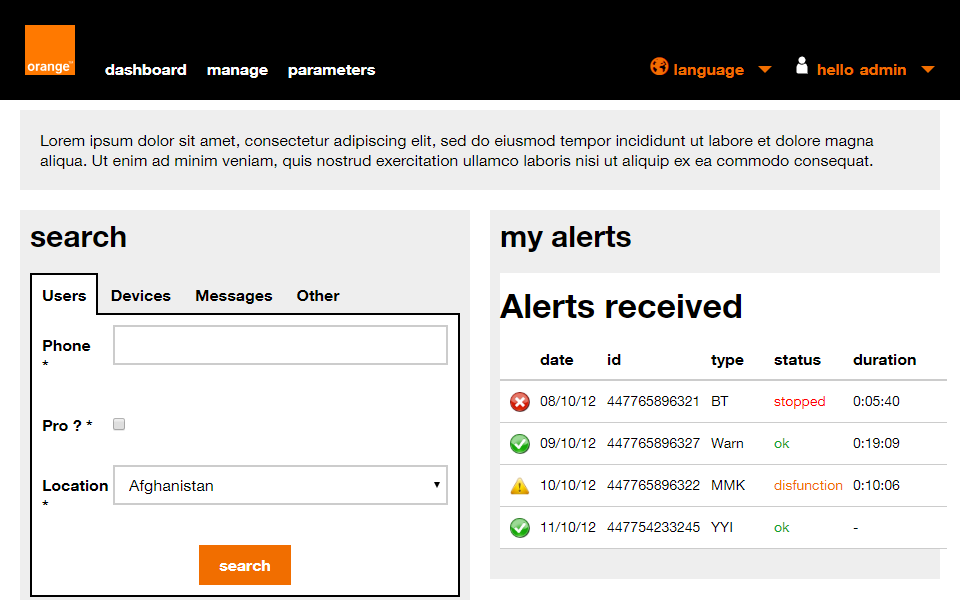
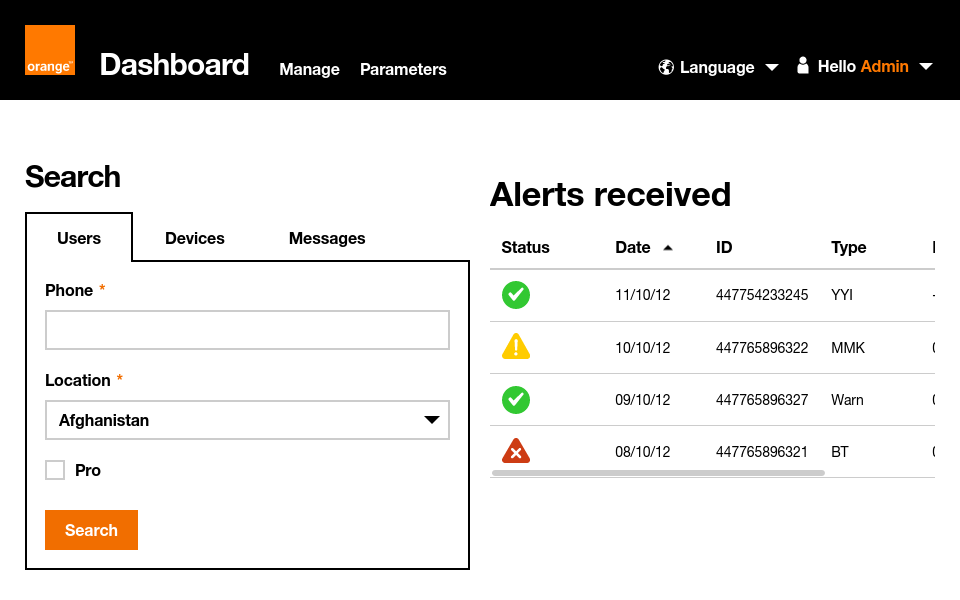
docs(examples): screenshots for Orange branded dashboard example

diff --git a/site/docs/4.4/examples/dashboard-orange-branded/index.html b/site/docs/4.4/examples/dashboard-orange-branded/index.html
@@ -70,7 +70,6 @@
             <li class="nav-item"><a class="nav-link active" href="#users" data-toggle="tab">Users</a></li>
             <li class="nav-item"><a class="nav-link" href="#devices" data-toggle="tab">Devices</a></li>
             <li class="nav-item"><a class="nav-link" href="#messages" data-toggle="tab">Messages</a></li>
-            <li class="nav-item d-sm-none d-md-flex"><a class="nav-link" href="#other" data-toggle="tab">Other</a></li>
           </ul>
           <div class="tab-content">
             <div class="tab-pane active" id="users">
@@ -145,17 +144,11 @@
                 </div>
               </form>
             </div>
-            <div class="tab-pane hide-when-small" id="other">
-              <p>
-                Lorem ipsum dolor sit amet, consectetur adipiscing elit, sed do eiusmod tempor incididunt ut labore et dolore magna
-                aliqua. Ut enim ad minim veniam, quis nostrud exercitation ullamco laboris nisi ut aliquip ex ea commodo consequat.
-              </p>
-            </div>
           </div>
         </div>
 
-        <div class="col col-md-6 pl-5">
-          <table id="myTable" class="table tablesorter">
+        <div class="col col-md-6 pl-lg-5">
+          <table id="myTable" class="table tablesorter table-responsive">
             <caption>Alerts received</caption>
             <thead class="cf">
               <tr>
@@ -202,7 +195,7 @@
 
       <h1 id="sysInfo">Systems information</h1>
       <div class="row">
-        <div class="col-lg-4 col-md-6">
+        <div class="col-12 col-md-6 col-lg-4">
           <table id="sys1" class="table">
               <caption>System A</caption>
               <thead class="cf">
@@ -239,7 +232,7 @@
               </tbody>
             </table>
         </div>
-        <div class="col-lg-4 col-md-6">
+        <div class="col-12 col-md-6 col-lg-4">
           <table id="sys2" class="table">
             <caption>System B</caption>
             <thead class="cf">
@@ -276,7 +269,7 @@
             </tbody>
           </table>
         </div>
-        <div class="col-lg-4 col-md-6">
+        <div class="col-12 col-md-6 col-lg-4">
           <table id="sys3" class="table">
             <caption>System C</caption>
             <thead class="cf">
